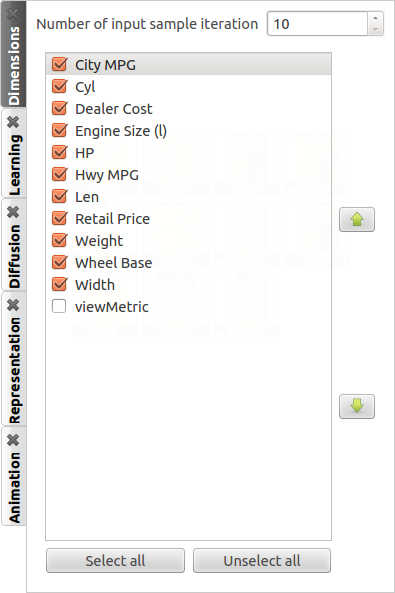
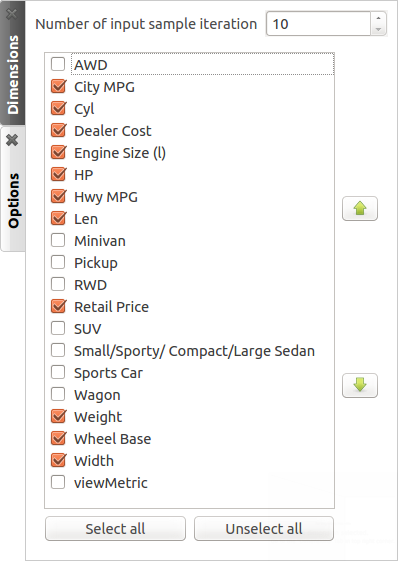
update user doc for SOM view according to the configuration widgets changes in commit #11024
git-svn-id: https://svn.code.sf.net/p/auber/code/tulip@11026 f5d4c5f9-c943-4916-8a57-bd8605bf961c

Changed region(s): [[0.0, 0.0, 0.9418, 1.0], [0.9418, 0.0303, 0.9722, 0.0606]]

diff --git a/doc/user/workspace.rst b/doc/user/workspace.rst
@@ -983,51 +983,15 @@ Dimensions
 ----------
 
 .. image:: _images/i_som_dimensions.png
-    :width: 395
 
 In a similar way to what we have already performed with the pixel oriented tool or with the scatterplot 2D view, the panel called *Dimensions* can allow you to select the properties to use for building the self organizing maps.
 
-.. _workspace_selforganizing_learning:
+Options
+-------
 
-Learning
---------
+.. image:: _images/i_som_options.png
 
-.. image:: _images/i_som_learning.png
-    :width: 395
-
-Beside offering the capability to work on high-dimensionnal data, the self organizing maps are able to use competitive learning. This panel offers to the user to specify the learning coefficient.
-
-.. _workspace_selforganizing_diffusion:
-
-Diffusion
----------
-
-.. image:: _images/i_som_diffusion.png
-    :width: 395
-
-
-
-
-.. _workspace_selforganizing_representation:
-
-Representation
---------------
-
-.. image:: _images/i_som_representation.png
-    :width: 395
-
-This panel 
-
-BMU = Best Matching Unit
-
-.. _workspace_selforganizing_animation:
-
-Animation
----------
-
-.. image:: _images/i_som_animation.png
-    :width: 395
-
+Beside offering the capability to work on high-dimensionnal data, the self organizing maps are able to use competitive learning.
 
 .. _workspace_spreadsheet_example:
 
